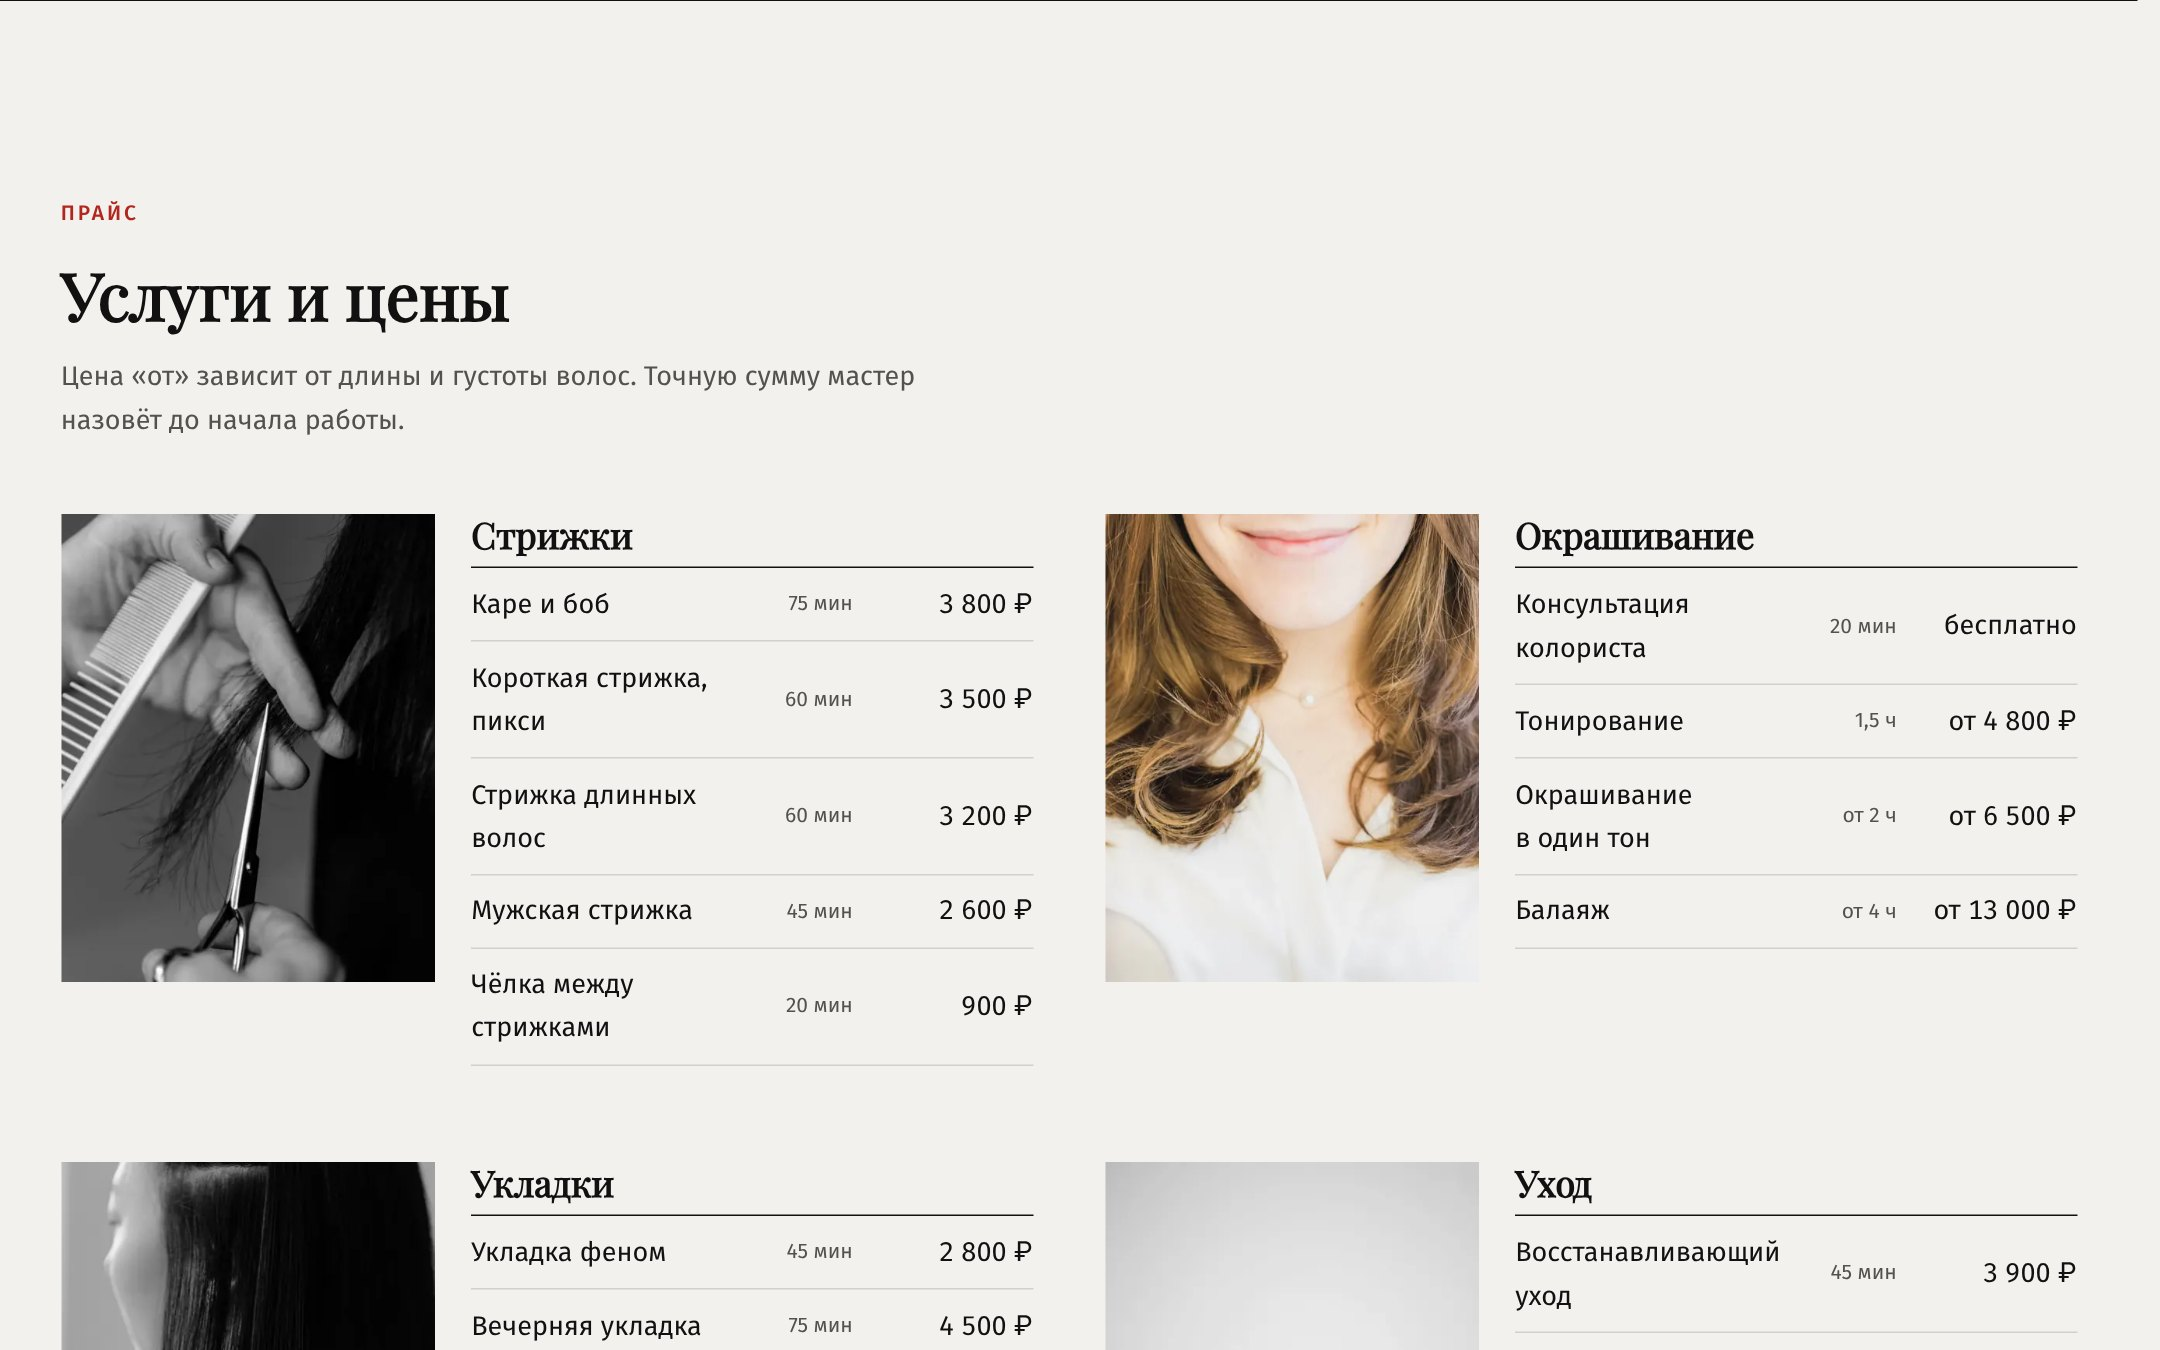
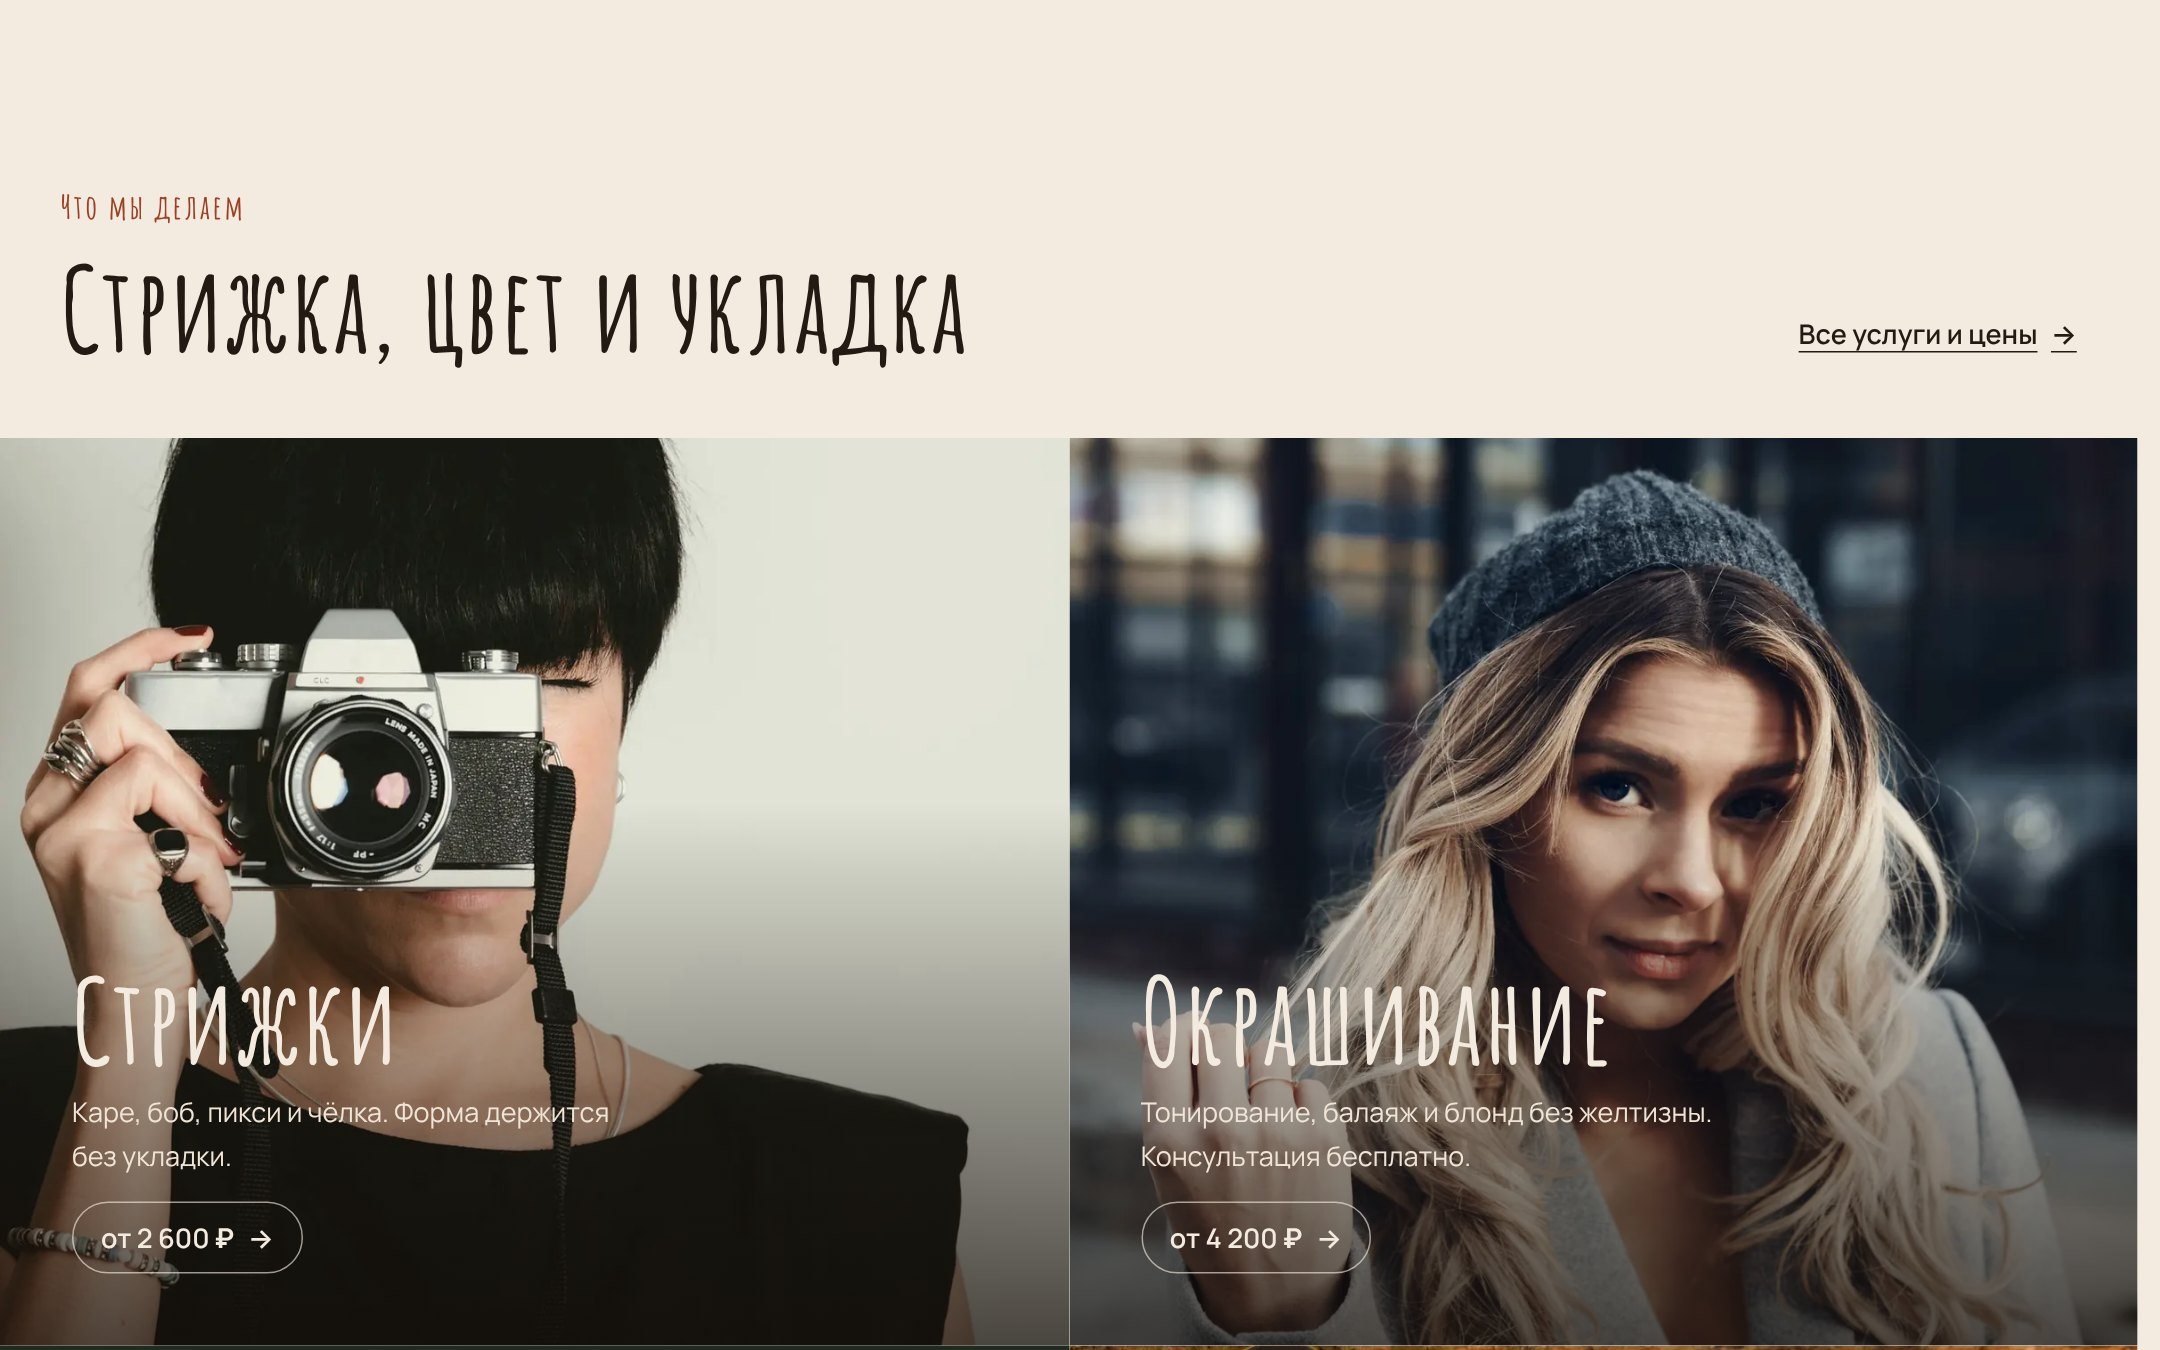
Портфолио: новые снимки и текст «Каре» в тёплом стиле
- шесть экранов пересняты с живого сайта (лампа, услуги, журнал)
- описание, подпись и срок переписаны под многостраничный тёплый сайт
- ссылка «Сайт» ведёт на живое превью

Claude-Session: https://claude.ai/code/session_01EqjaGEMsxfvaRW2MYHcQtJ

diff --git a/src/content/cases/kare/index.md b/src/content/cases/kare/index.md
@@ -5,11 +5,11 @@ city: "Москва"
 year: 2026
 status: concept # concept — учебная работа, client — настоящий заказ
 url: "https://verver-vadya.github.io/site-kare/"
-live: false # false, если превью ещё не опубликовано
+live: true # false, если превью ещё не опубликовано
 order: 2 # меньше — выше в списке
-summary: "Салон в стиле модного журнала: крупное название за головой модели, прайс как журнальная колонка, запись онлайн."
-tagline: "Обложка модного журнала, только вместо подписки запись к мастеру."
-term: "Один день, прототип главной"
+summary: "Тёплый сайт салона: зал с кирпичной стеной и лампой на первом экране, услуги с ценами по уровням мастеров, лукбук, журнал и запись в три шага."
+tagline: "Сначала включается лампа, потом хочется записаться."
+term: "Два дня, концепт"
 desktop:
   - ./desktop-1.jpg
   - ./desktop-2.jpg
@@ -26,4 +26,4 @@ phone:
 
 ## Решение
 
-Обложка как у модного журнала: название «КАРЕ» стоит за головой модели, анонсы разделов идут колонкой справа. Чёрно-белые фото, один красный цвет для записи. Прайс собран журнальными колонками с длительностью услуг, работы мастеров идут крупной лентой. Для записи своя форма и место под виджет DIKIDI или YClients.
+Сайт как сам салон: первым экраном зал с кирпичной стеной, в котором загорается лампа, рукописные заголовки, штукатурка, терракота и зелёный бархат. Не одна длинная страница, а разделы: услуги с ценами по уровням мастеров, страница каждого мастера с его работами, лукбук с кнопкой «Хочу так же», журнал салона, контакты с тем, как пройти со двора. Запись в три шага, а услуга и мастер подставляются сами из той страницы, откуда человек пришёл. Всё, что повторяется, лежит в одном месте, поэтому цены и мастеров владелец меняет без вёрстки.
